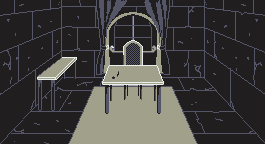
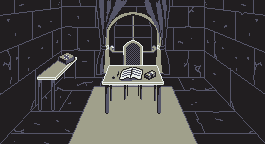
Fix: Fixed front door going to startupRoom and added items in officeRooms.png

Changed region(s): [[0.4528, 0.4444, 0.6038, 0.5833], [0.2113, 0.3611, 0.3019, 0.4444]]

diff --git a/src/api/src/game-implementation/items/DoorFrontDoorOutside.ts b/src/api/src/game-implementation/items/DoorFrontDoorOutside.ts
@@ -27,6 +27,10 @@ export class DoorFrontDoorOutsideItem extends Item implements Examine, GoTo {
     }
 
     public goto(): ActionResult | undefined {
+        // Set a if statemenet if player doesnt have the key or other item.
+        return new TextActionResult([
+            "Its locked, i should find a key.",
+        ]);
         const startupRoom: Room = new StartupRoom();
 
         gameService.getPlayerSession().currentRoom = startupRoom.alias;

diff --git a/src/api/src/game-implementation/rooms/FrontDoorRoom.ts b/src/api/src/game-implementation/rooms/FrontDoorRoom.ts
@@ -8,7 +8,6 @@ import { GoToAction } from "../actions/GoToAction";
 import { DoorFrontDoorLivingRoomItem } from "../items/DoorFrontDoorLivingRoomItem";
 import { DoorFrontDoorOutsideItem } from "../items/DoorFrontDoorOutside";
 import { FrontDoorHallwayItem } from "../items/FrontDoorHallwayItem";
-import { StairsDownStairsItem } from "../items/StairsDownstairsItem";
 
 /**
  * Implemention of the storage room

diff --git a/docs/game-design-document/game-objects/items.md b/docs/game-design-document/game-objects/items.md
@@ -4,20 +4,6 @@ title: Items
 # Items
 **TODO:** Beschrijf hier welke *Items* er allemaal in het spel zullen voorkomen en hoe de speler interactie met ze aangaat. Is een *Item* om een puzzel op te lossen? Beschrijf dan hier wat voor soort puzzel je kunt verwachten en/of link naar relevante andere *game objecten*/onderdelen in je documentatie.
 
-# ItemClass variables
-- ItemName string
-- ItemImage HTMLImageElement (link naar image file)
-- ItemDescription string
-- ItemDestroyMessage string
-- ItemDestroySound HTMLAudioElement (link naar sound file)
-
-# ItemClass functions
-- OnPickupItem
-- OnDestroyItem
-- OnUseItem
-
-
-
 flashlightItem om de donkere kamer te belichten. De cursor belicht de kamer en de player kan hiermee de deur naar de keuken vinden. Als de player klaar is met de lamp, dan wordt deze vernietigd met een message: "Your flashlight is out of batteries". De flashlight wordt gevonden wanneer de player een raadsel oplost in de storage room, de code vindt die daardoor tevoorschijn komt en deze invoert in de safe in de storage room.
 
 BodyPartItem De player kan deze verzamelen voor de ghostCharacter in de keuken. Deze item varieert kwa uiterlijk aan de hand van wat de de ghostCharacter vraagt.
